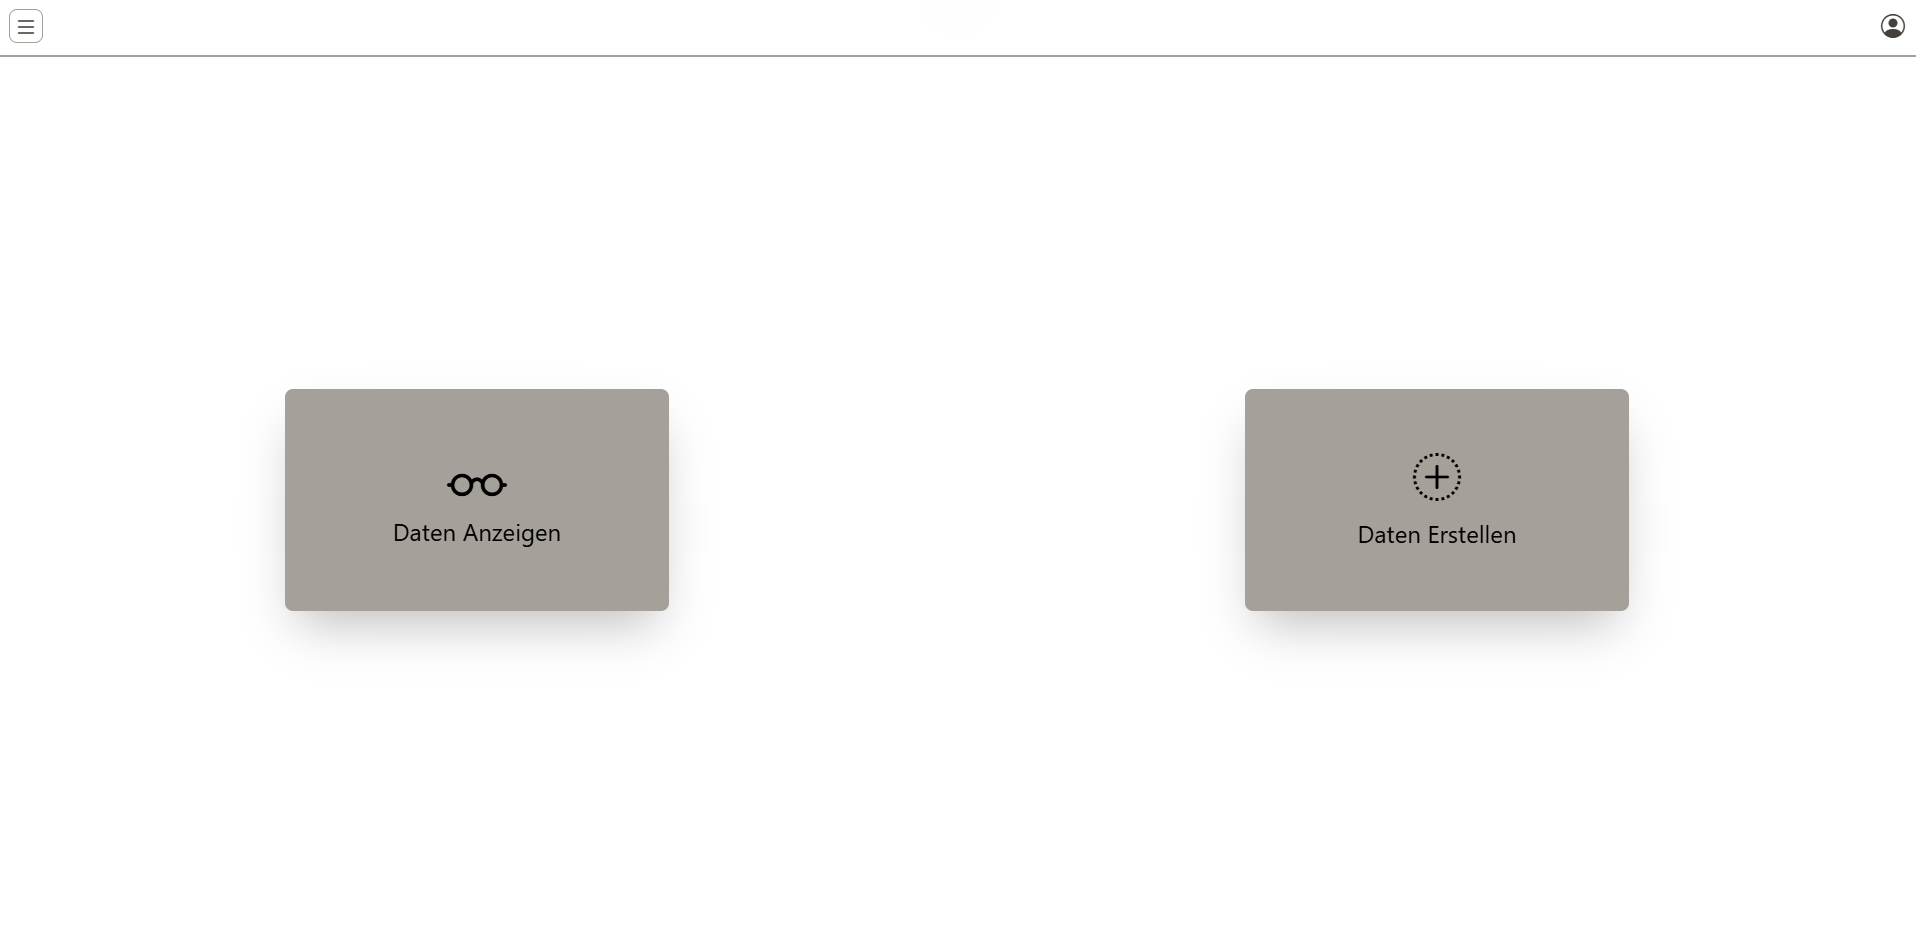
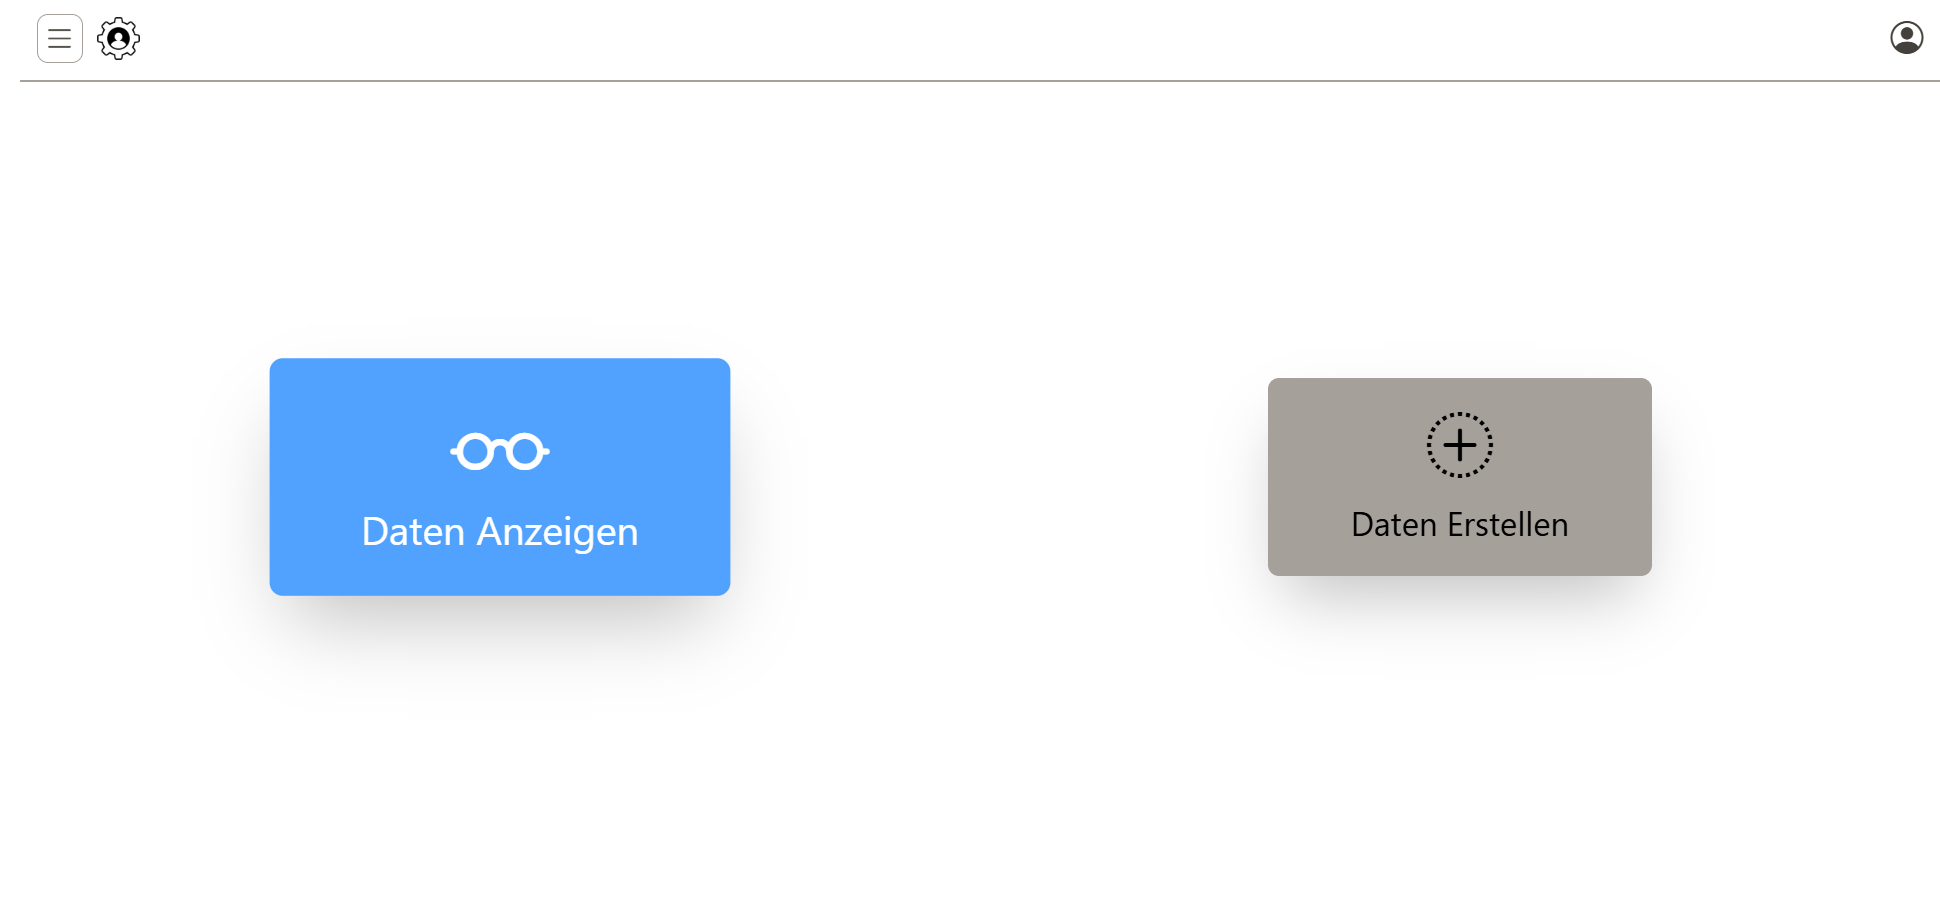
guide überarbeiten, login test daten ändern, deletemodal erstellt

diff --git a/src/components/ansehen/TableView.vue b/src/components/ansehen/TableView.vue
@@ -111,7 +111,16 @@ function refreshData() {
   filterStore.formularFilterState = false
 }
 
-async function deleteData() {
+const deleteModal = ref(false)
+const deleteState = ref(false)
+
+function deleteData() {
+  if (!deleteState) return
+  permanentlyDeleteData()
+  refreshData()
+}
+
+async function permanentlyDeleteData() {
   databaseStore.deleteData(cardStore.currentHardware.id)
   hardware.value = await databaseStore.getData()
 }
@@ -119,6 +128,37 @@ async function deleteData() {
 
 <template>
   <div class="flex flex-col gap-5">
+    <!-- modal -->
+    <div v-if="deleteModal" class="absolute w-full flex justify-center items-baseline">
+      <div
+        class="bg-white z-5000 p-5 shadow-2xl rounded-lg flex flex-col items-center justify-center gap-5"
+      >
+        <TheIcons
+          icon="bi bi-trash3"
+          class="text-5xl text-red-500 flex items-center justify-center"
+        />
+
+        <div>Sind Sie sicher, dass Sie diese Hardware löschen wollen?</div>
+        <div class="flex gap-10">
+          <button
+            @click="((deleteModal = false), (deleteState = true), deleteData())"
+            class="border rounded-lg bg-red-400 border-red-400 text-white h-10 px-10 hover:bg-stone-200 hover:text-stone-600 hover:duration-300 not-focus:duration-300"
+          >
+            ja
+          </button>
+          <button
+            @click="((deleteModal = false), (deleteState = false))"
+            class="border rounded-lg text-stone-600 h-10 px-10 hover:bg-stone-200 hover:duration-300 not-focus:duration-300"
+          >
+            nein
+          </button>
+        </div>
+      </div>
+    </div>
+
+    <div v-if="deleteModal === true" class="absolute w-full h-[90%] z-3000"></div>
+    <!-- model container -->
+
     <!-- Searchbar, SearchIcon, SearchItem, SearchClear, FilterIcon, RefreshIcon -->
     <div class="w-full flex items-center gap-2">
       <!-- Searchbar -->
@@ -165,7 +205,7 @@ async function deleteData() {
         Bearbeiten
       </button>
       <button
-        @click="(deleteData(), refreshData())"
+        @click="deleteModal = true"
         :disabled="cardStore.currentHardware === ''"
         class="uppercase select-none flex gap-2 items-center text-md p-2 h-full px-3 rounded-lg text-stone-600 hover:bg-red-100 hover:duration-200 not-focus:duration-200 disabled:hidden"
       >

diff --git a/src/views/AccountView.vue b/src/views/AccountView.vue
@@ -1,8 +1,14 @@
 <script setup>
 import TheIcons from '@/components/TheIcons.vue'
-import { ref } from 'vue'
+import { reactive, ref } from 'vue'
 
 const showMiniModal = ref(false)
+
+const accountCredentials = reactive({
+  name: 'Ece Özmen ',
+  username: 'eo-13',
+  passwort: '1234567890',
+})
 </script>
 <template>
   <div class="overflow-y-scroll">
@@ -62,19 +68,34 @@ const showMiniModal = ref(false)
       <div class="w-1/3">
         <div class="text-stone-600">Profilname</div>
         <div class="flex border border-stone-400 rounded-sm p-2 w-full">
-          <input type="text" placeholder="Ece Özmen" class="outline-none w-full" />
+          <input
+            type="text"
+            placeholder="Max Mustermann"
+            v-model="accountCredentials.name"
+            class="outline-none w-full"
+          />
         </div>
       </div>
       <div class="w-1/3">
-        <div class="text-stone-600">Username</div>
+        <div class="text-stone-600">Benutzername</div>
         <div class="flex border border-stone-400 rounded-sm p-2 w-full">
-          <input type="text" placeholder="eo-13" class="outline-none w-full" />
+          <input
+            type="text"
+            placeholder="max123"
+            v-model="accountCredentials.username"
+            class="outline-none w-full"
+          />
         </div>
       </div>
       <div class="w-1/3">
         <div class="text-stone-600">Passwort</div>
         <div class="flex border border-stone-400 rounded-sm p-2 w-full">
-          <input type="password" placeholder="info-ente1299!Heiko" class="outline-none w-full" />
+          <input
+            type="password"
+            placeholder="123max456"
+            v-model="accountCredentials.passwort"
+            class="outline-none w-full"
+          />
         </div>
       </div>
 

diff --git a/src/components/guide/MenuSection.vue b/src/components/guide/MenuSection.vue
@@ -6,24 +6,9 @@ import TextBlock from '@/components/guide/TextBlock.vue'
     <h1 class="text-6xl text-center">Menü – Übersicht</h1>
     <div class="p-4 flex justify-around">
       <div class="w-1/2 flex flex-col justify-center items-center gap-5">
-        <p class="text-lg">
-          In deinem Menü findest du die folgenden Bereiche, die dir dabei helfen, schnell auf alle
-          wichtigen Funktionen deiner Anwendung zuzugreifen:
-        </p>
-
         <TextBlock
           class="w-full"
           nummer="1"
-          title="Account"
-          text="Ganz oben im Menü findest du das Account-Icon. Über dieses Symbol gelangst du zu
-                  deinen Account-Einstellungen, wo du persönliche Daten bearbeiten und dein Konto
-                  verwalten kannst. Außerdem findest du hier die Möglichkeit, dich abzumelden und
-                  weitere Kontooptionen, wie man es gewohnt ist."
-        />
-
-        <TextBlock
-          class="w-full"
-          nummer="2"
           title="Seiten"
           text=" Unter diesem Bereich findest du die wichtigsten Navigationsmöglichkeiten:"
         >
@@ -45,7 +30,7 @@ import TextBlock from '@/components/guide/TextBlock.vue'
 
         <TextBlock
           class="w-full"
-          nummer="3"
+          nummer="2"
           title="Information"
           text="In diesem Bereich stehen dir weiterführende Informationen zur Verfügung:"
         >
@@ -64,7 +49,7 @@ import TextBlock from '@/components/guide/TextBlock.vue'
 
         <TextBlock
           class="w-full"
-          nummer="4"
+          nummer="3"
           title="Einstellungen"
           text="Hier kannst du die grundlegenden Einstellungen der Anwendung anpassen:"
         >

diff --git a/src/components/guide/TopBarSection.vue b/src/components/guide/TopBarSection.vue
@@ -1,0 +1,32 @@
+<script setup>
+import TextBlock from '@/components/guide/TextBlock.vue'
+</script>
+<template>
+  <section class="flex flex-col gap-5">
+    <h1 class="text-6xl text-center">Top Bar – Ausblick</h1>
+    <div class="p-4 flex justify-around">
+      <div class="w-1/2 flex flex-col justify-center items-center gap-5">
+        <p class="text-lg">Auf der Top Navbar sind zwei wichtige Buttons:</p>
+
+        <TextBlock
+          class="w-full"
+          nummer="1"
+          title="Menu"
+          text="Ganz links ist das Burger Menü Icon, mit dem man wie der Name schon sagt zu dem Menu kommt. Dort kannst du dich über die ganzen weiteren Seiten navigieren. Auf diese besagten Seiten wird im Nachhinein eingegangen."
+        />
+
+        <TextBlock
+          class="w-full"
+          nummer="2"
+          title="Account"
+          text="Und ganz rechts findest du das Account-Icon. Über dieses Symbol gelangst du zu
+                  deinen Account-Einstellungen, wo du persönliche Daten bearbeiten und dein Konto
+                  verwalten kannst. Außerdem findest du hier die Möglichkeit, dich abzumelden."
+        />
+      </div>
+      <div class="w-1/2 h-max border border-stone-400">
+        <img src="../../assets/img/guide/top.png" alt="" />
+      </div>
+    </div>
+  </section>
+</template>

diff --git a/src/stores/database.js b/src/stores/database.js
@@ -8,7 +8,7 @@ export const useDatabaseStore = defineStore('database', () => {
   // const fetchedData = ref(null)
   const fetchState = ref('loading')
 
-  const updateFormular = false
+  const updateFormular = ref(false)
 
   async function getData() {
     let response
@@ -135,5 +135,33 @@ export const useDatabaseStore = defineStore('database', () => {
 
     console.log(answer)
   }
+
+  async function userLogin(username, password) {
+    // const url = 'https://ham-ace.netlify.app/api/create_data.php'
+
+    const url = 'http://localhost/test/login.php'
+
+    let obj = {
+      username: username,
+      password: password,
+    }
+
+    let jsn = JSON.stringify(obj)
+
+    let response = await fetch(url, {
+      method: 'POST',
+      headers: {
+        Accept: 'application/json',
+      },
+      body: jsn,
+    })
+
+    const answer = await response.json()
+
+    if (response.ok) {
+      console.log(answer)
+    }
+  }
+
   return { updateFormular, createData, getData, deleteData, updateData }
 })

diff --git a/src/views/GuideView.vue b/src/views/GuideView.vue
@@ -1,6 +1,7 @@
 <script setup>
 import ConstructionSite from '@/components/site_overlay/ConstructionSite.vue'
 import StartSection from '@/components/guide/StartSection.vue'
+import TopBarSection from '@/components/guide/TopBarSection.vue'
 import MenuSection from '@/components/guide/MenuSection.vue'
 import AccountSection from '@/components/guide/AccountSection.vue'
 import AnsehenSection from '@/components/guide/AnsehenSection.vue'
@@ -13,6 +14,8 @@ import AnsehenSection from '@/components/guide/AnsehenSection.vue'
       <h1 class="text-7xl text-center">Guide</h1>
       <!-- start section -->
       <StartSection></StartSection>
+
+      <TopBarSection></TopBarSection>
       <!-- menu -->
       <MenuSection></MenuSection>
       <!-- account -->

diff --git a/src/components/TheLogin.vue b/src/components/TheLogin.vue
@@ -4,8 +4,6 @@ import { ref } from 'vue'
 const pswd = ref('')
 const usrname = ref('')
 
-let pswdHash = ''
-
 // SALTING
 // an das Password wird der zum Server zugehörig generierte Key angehängt dadurch entsteht ein hash welcher nicht in der Rainbow table steht (= standard passwörter und die zugehörigen hashwerte)
 </script>
@@ -35,7 +33,7 @@ let pswdHash = ''
         <div class="flex items-center justify-center gap-2 h-full">
           <div>Passwort vergessen?</div>
         </div>
-        <a class="underline text-blue-500" href="">passwort zurücksetzen</a>
+        <a class="underline font-light text-blue-500" href="">hier</a>
       </div>
       <button
         @click="mySubmit()"

diff --git a/src/components/ansehen/InformationCard.vue b/src/components/ansehen/InformationCard.vue
@@ -19,14 +19,11 @@ function refreshData() {
     <TheIcons
       icon="bi bi-x"
       @click="refreshData()"
-      class="text-2xl border w-max px-1 rounded-full"
+      class="text-2xl w-max px-1 rounded-full"
     ></TheIcons>
 
-    <div
-      v-for="(information, index) in cardStore.currentHardware"
-      class="p-1 border-b border-stone-300"
-    >
-      <div class="flex justify-between">
+    <div v-for="(information, index) in cardStore.currentHardware" class="p-1">
+      <div v-if="index !== 'id'" class="flex justify- between border-b border-stone-300">
         <div>
           {{ index + ': ' }}
         </div>

diff --git a/src/App.vue b/src/App.vue
@@ -1,10 +1,10 @@
 <script setup>
-import { onMounted } from 'vue'
+import { onMounted, ref } from 'vue'
 import TheLogin from './components/TheLogin.vue'
 import UpdateFormular from './components/UpdateFormular.vue'
 import TheModal from './components/TheModal.vue'
 import WindowView from './views/WindowView.vue'
-const loginState = false
+const loginState = ref(false)
 </script>
 
 <template>

diff --git a/src/views/AnzeigenView.vue b/src/views/AnzeigenView.vue
@@ -40,7 +40,7 @@ onMounted(() => {
 })
 </script>
 <template>
-  <div class="flex gap-3 p-4">
+  <div class="flex gap-3 p-4 overflow-y-scroll">
     <TreeView class="w-1/5" :class="{ 'blur-sm': modalStore.showModal }"></TreeView>
     <TableView class="w-full" :class="{ 'blur-sm': modalStore.showModal }"></TableView>
     <InformationCard
